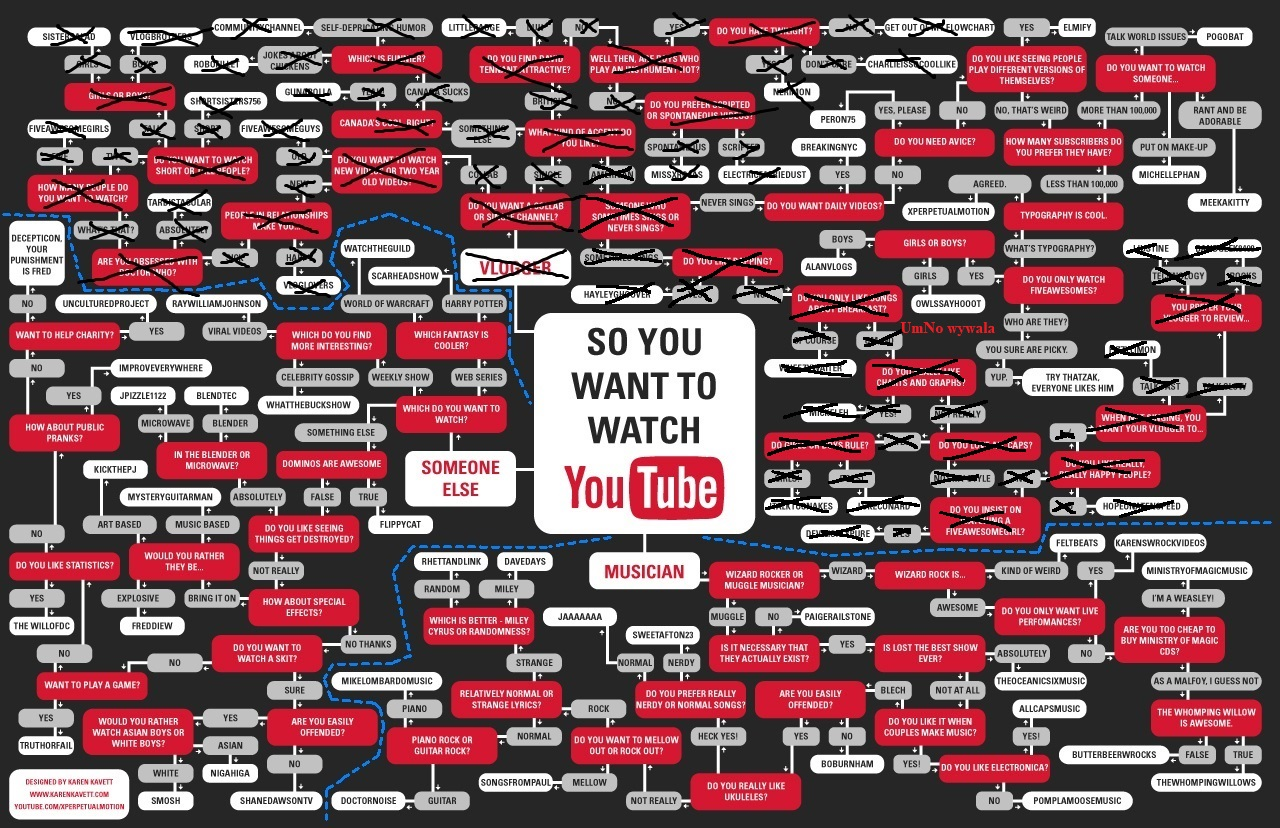
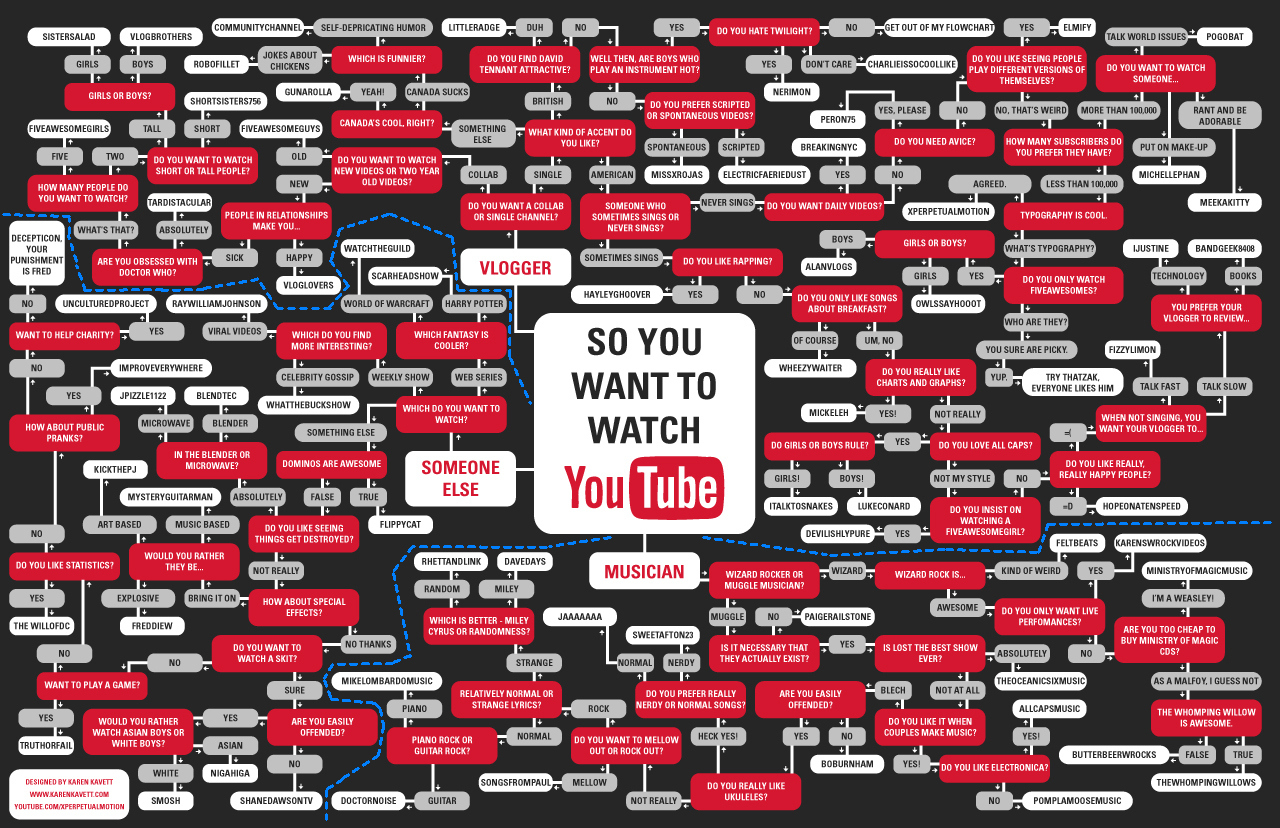
Add rest of the chart

diff --git a/question_handler.py b/question_handler.py
@@ -34,6 +34,14 @@ questions_list = [
     ('LikeReallyHappyPeople','Do you like really, really happy people?'),
     ('YouWantYourVloggerTo','When not singing, you want your vlogger to..'),
     ('YouPreferYourVloggerTo','You prefer your vlogger to review..'),
+    ('DailyQuestion','Do you want daily videos?'),
+    ('AviceQuestion','Do you need avice?'),
+    ('VersionsQuestion','Do you like seeing people play different versions of themselves?'),
+    ('SubscribersQuestion','Hom many subscribers do you prefer to have?'),
+    ('WatchQuestion','Do you want to watch someone...'),
+    ('TypographyQuestion','Typography is cool.'),
+    ('FiveawesomesQuestion','Do you only watch fiveawesomes?'),
+    ('YouSureArePickyQuestion','You Sure are picky.'),
 ]
 cur.executemany('INSERT INTO questions VALUES (?, ?);', questions_list)
 
